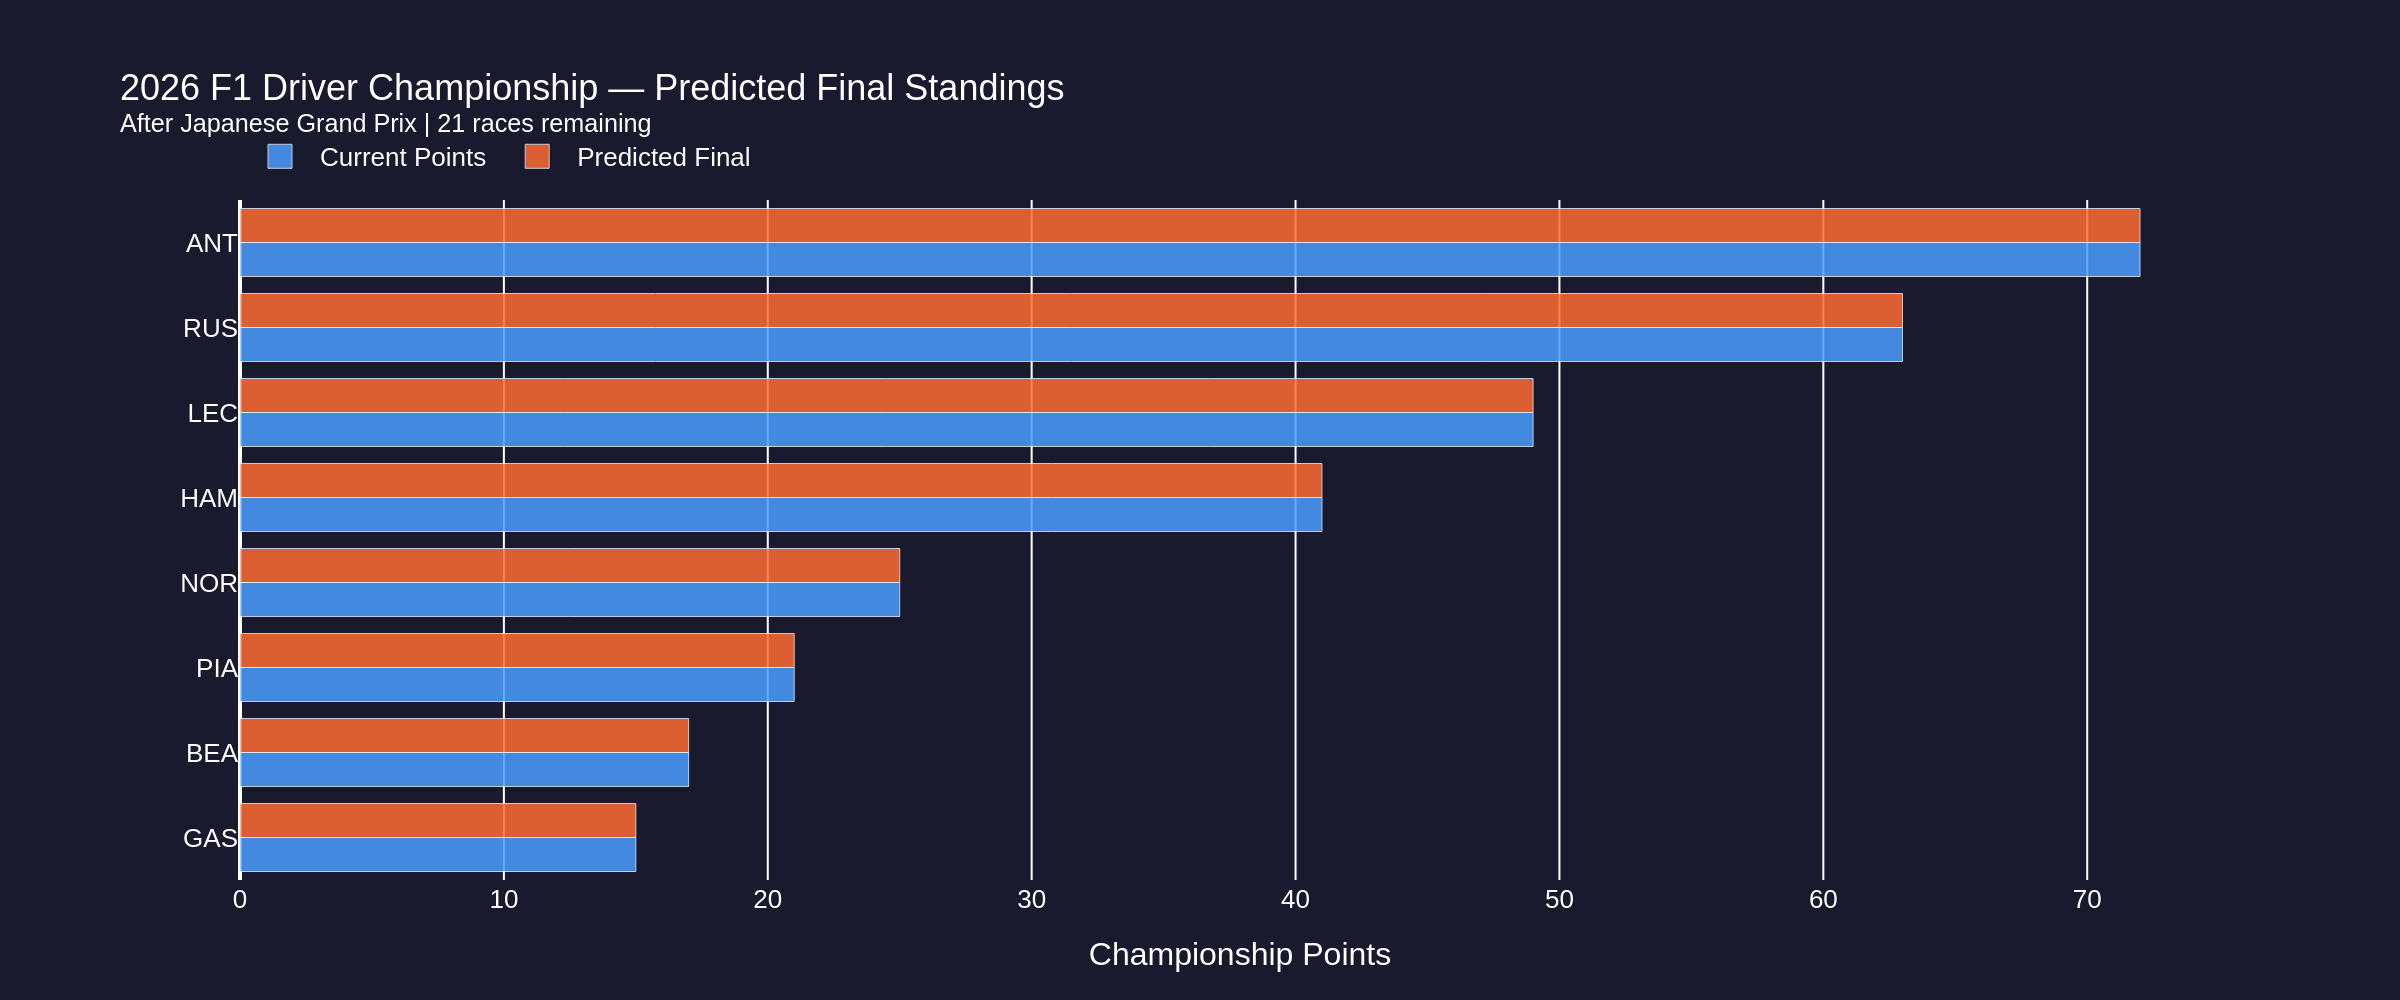
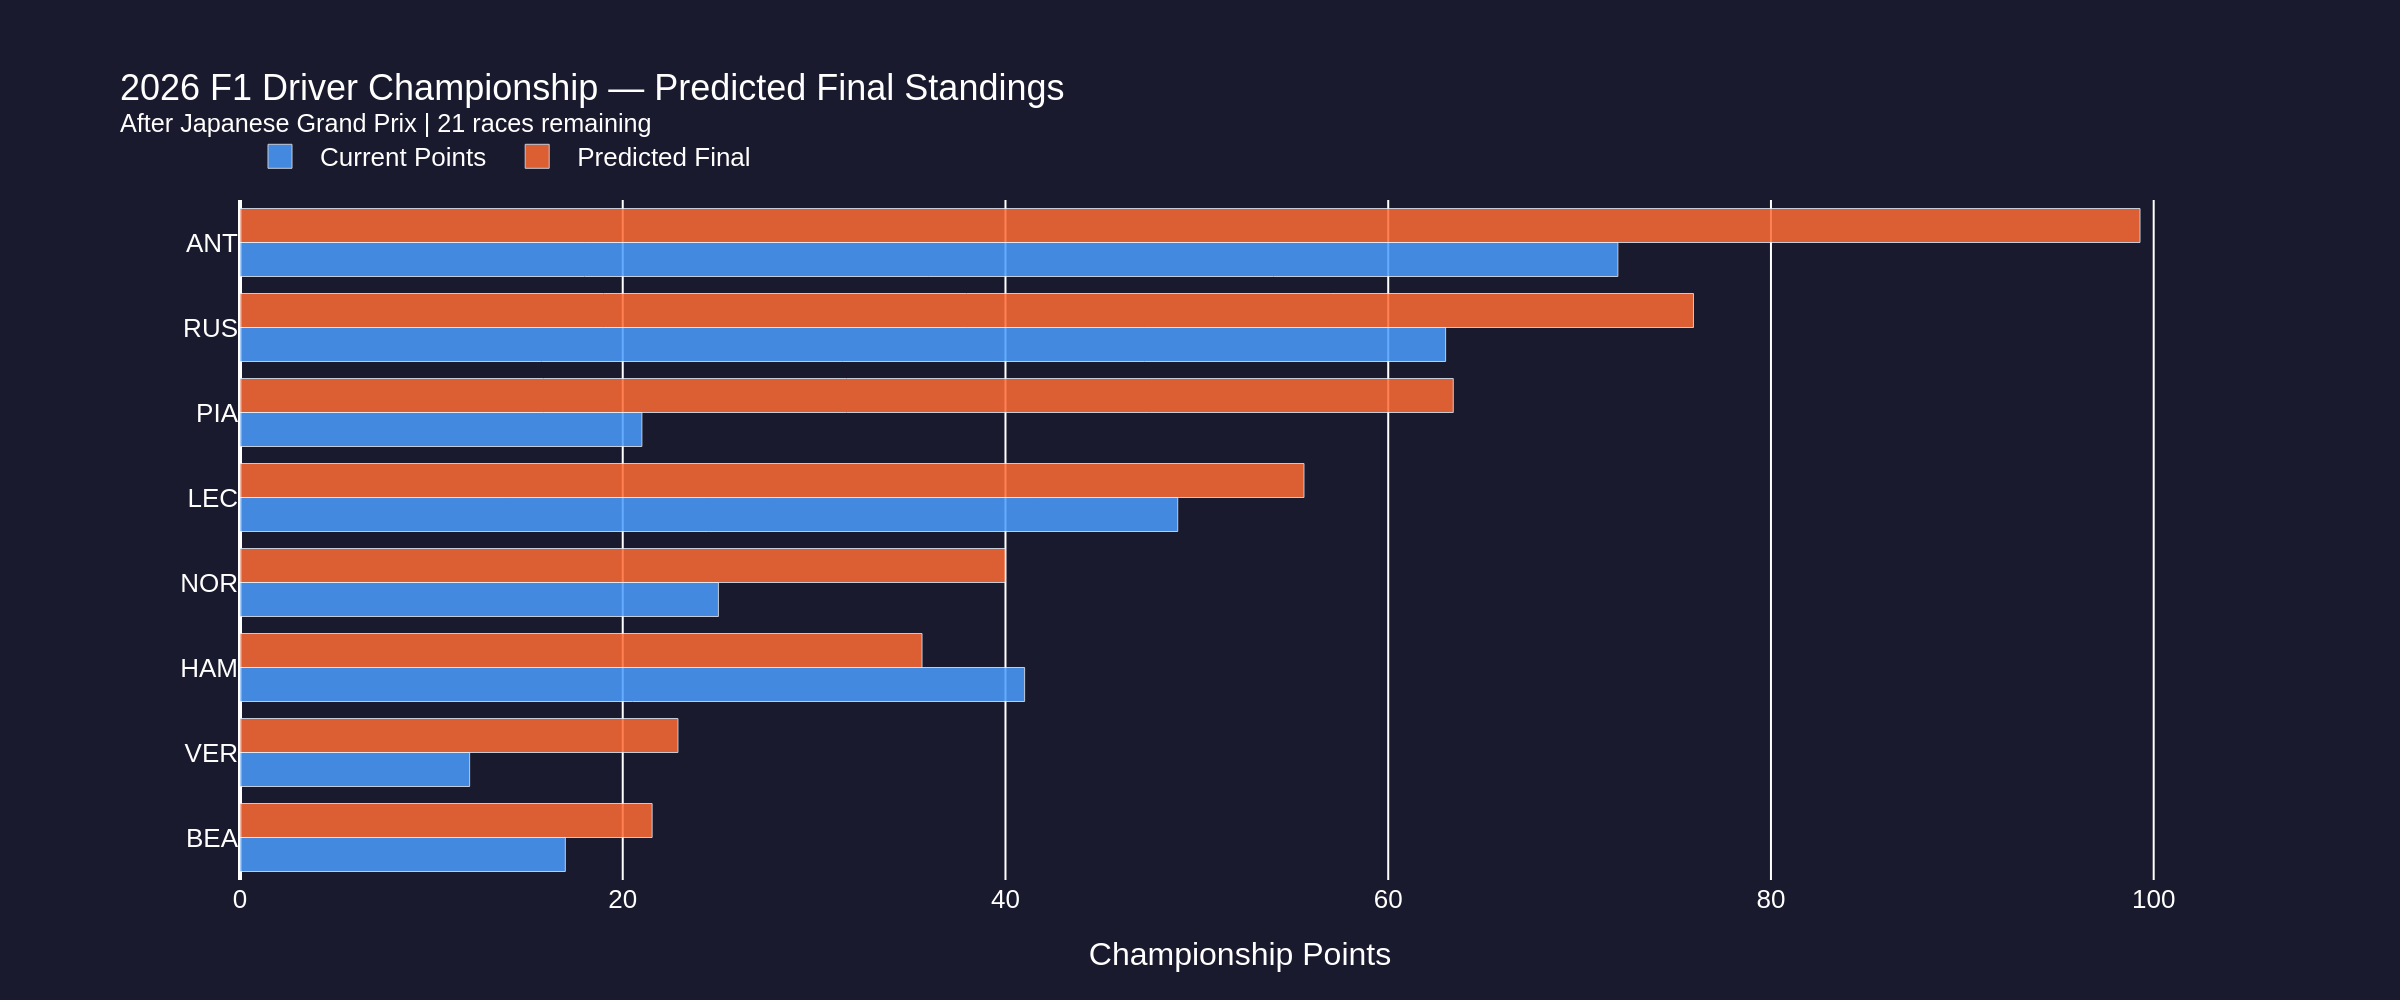
chore: F1 predictions update — 2026-03-30 10:15 UTC

diff --git a/docs/races/japan_2026/index.html b/docs/races/japan_2026/index.html
@@ -106,16 +106,16 @@ a { color: #4a9eff; }
   </div>
   <table style="width:100%; border-collapse:collapse; font-size:0.88rem;">
     <thead><tr><th style="padding:5px 10px; text-align:left; color:#aaa; font-weight:500; border-bottom:1px solid #2a2a4e;">Pos</th><th style="padding:5px 10px; text-align:left; color:#aaa; font-weight:500; border-bottom:1px solid #2a2a4e;">Constructor</th><th style="padding:5px 10px; text-align:left; color:#aaa; font-weight:500; border-bottom:1px solid #2a2a4e; text-align:right;">Current Pts</th><th style="padding:5px 10px; text-align:left; color:#aaa; font-weight:500; border-bottom:1px solid #2a2a4e; text-align:right;">Predicted Final</th></tr></thead>
-    <tbody><tr><td style="padding:5px 10px; vertical-align:top;">1</td><td style="padding:5px 10px; vertical-align:top;"><strong>McLaren</strong></td><td style="padding:5px 10px; vertical-align:top; text-align:right;">46</td><td style="padding:5px 10px; vertical-align:top; text-align:right;">282</td></tr>
-<tr><td style="padding:5px 10px; vertical-align:top;">2</td><td style="padding:5px 10px; vertical-align:top;"><strong>Red Bull Racing</strong></td><td style="padding:5px 10px; vertical-align:top; text-align:right;">16</td><td style="padding:5px 10px; vertical-align:top; text-align:right;">263</td></tr>
-<tr><td style="padding:5px 10px; vertical-align:top;">3</td><td style="padding:5px 10px; vertical-align:top;"><strong>Mercedes</strong></td><td style="padding:5px 10px; vertical-align:top; text-align:right;">135</td><td style="padding:5px 10px; vertical-align:top; text-align:right;">262</td></tr>
-<tr><td style="padding:5px 10px; vertical-align:top;">4</td><td style="padding:5px 10px; vertical-align:top;"><strong>Ferrari</strong></td><td style="padding:5px 10px; vertical-align:top; text-align:right;">90</td><td style="padding:5px 10px; vertical-align:top; text-align:right;">232</td></tr>
-<tr><td style="padding:5px 10px; vertical-align:top;">5</td><td style="padding:5px 10px; vertical-align:top;"><strong>Aston Martin</strong></td><td style="padding:5px 10px; vertical-align:top; text-align:right;">0</td><td style="padding:5px 10px; vertical-align:top; text-align:right;">62</td></tr>
-<tr><td style="padding:5px 10px; vertical-align:top;">6</td><td style="padding:5px 10px; vertical-align:top;"><strong>Williams</strong></td><td style="padding:5px 10px; vertical-align:top; text-align:right;">2</td><td style="padding:5px 10px; vertical-align:top; text-align:right;">56</td></tr>
-<tr><td style="padding:5px 10px; vertical-align:top;">7</td><td style="padding:5px 10px; vertical-align:top;"><strong>Racing Bulls</strong></td><td style="padding:5px 10px; vertical-align:top; text-align:right;">14</td><td style="padding:5px 10px; vertical-align:top; text-align:right;">32</td></tr>
-<tr><td style="padding:5px 10px; vertical-align:top;">8</td><td style="padding:5px 10px; vertical-align:top;"><strong>Haas</strong></td><td style="padding:5px 10px; vertical-align:top; text-align:right;">18</td><td style="padding:5px 10px; vertical-align:top; text-align:right;">20</td></tr>
-<tr><td style="padding:5px 10px; vertical-align:top;">9</td><td style="padding:5px 10px; vertical-align:top;"><strong>Alpine</strong></td><td style="padding:5px 10px; vertical-align:top; text-align:right;">16</td><td style="padding:5px 10px; vertical-align:top; text-align:right;">20</td></tr>
-<tr><td style="padding:5px 10px; vertical-align:top;">10</td><td style="padding:5px 10px; vertical-align:top;"><strong>Audi</strong></td><td style="padding:5px 10px; vertical-align:top; text-align:right;">2</td><td style="padding:5px 10px; vertical-align:top; text-align:right;">13</td></tr>
+    <tbody><tr><td style="padding:5px 10px; vertical-align:top;">1</td><td style="padding:5px 10px; vertical-align:top;"><strong>McLaren</strong></td><td style="padding:5px 10px; vertical-align:top; text-align:right;">46</td><td style="padding:5px 10px; vertical-align:top; text-align:right;">398</td></tr>
+<tr><td style="padding:5px 10px; vertical-align:top;">2</td><td style="padding:5px 10px; vertical-align:top;"><strong>Red Bull Racing</strong></td><td style="padding:5px 10px; vertical-align:top; text-align:right;">16</td><td style="padding:5px 10px; vertical-align:top; text-align:right;">361</td></tr>
+<tr><td style="padding:5px 10px; vertical-align:top;">3</td><td style="padding:5px 10px; vertical-align:top;"><strong>Ferrari</strong></td><td style="padding:5px 10px; vertical-align:top; text-align:right;">90</td><td style="padding:5px 10px; vertical-align:top; text-align:right;">227</td></tr>
+<tr><td style="padding:5px 10px; vertical-align:top;">4</td><td style="padding:5px 10px; vertical-align:top;"><strong>Mercedes</strong></td><td style="padding:5px 10px; vertical-align:top; text-align:right;">135</td><td style="padding:5px 10px; vertical-align:top; text-align:right;">206</td></tr>
+<tr><td style="padding:5px 10px; vertical-align:top;">5</td><td style="padding:5px 10px; vertical-align:top;"><strong>Aston Martin</strong></td><td style="padding:5px 10px; vertical-align:top; text-align:right;">0</td><td style="padding:5px 10px; vertical-align:top; text-align:right;">85</td></tr>
+<tr><td style="padding:5px 10px; vertical-align:top;">6</td><td style="padding:5px 10px; vertical-align:top;"><strong>Williams</strong></td><td style="padding:5px 10px; vertical-align:top; text-align:right;">2</td><td style="padding:5px 10px; vertical-align:top; text-align:right;">36</td></tr>
+<tr><td style="padding:5px 10px; vertical-align:top;">7</td><td style="padding:5px 10px; vertical-align:top;"><strong>Racing Bulls</strong></td><td style="padding:5px 10px; vertical-align:top; text-align:right;">14</td><td style="padding:5px 10px; vertical-align:top; text-align:right;">28</td></tr>
+<tr><td style="padding:5px 10px; vertical-align:top;">8</td><td style="padding:5px 10px; vertical-align:top;"><strong>Audi</strong></td><td style="padding:5px 10px; vertical-align:top; text-align:right;">2</td><td style="padding:5px 10px; vertical-align:top; text-align:right;">18</td></tr>
+<tr><td style="padding:5px 10px; vertical-align:top;">9</td><td style="padding:5px 10px; vertical-align:top;"><strong>Haas</strong></td><td style="padding:5px 10px; vertical-align:top; text-align:right;">18</td><td style="padding:5px 10px; vertical-align:top; text-align:right;">18</td></tr>
+<tr><td style="padding:5px 10px; vertical-align:top;">10</td><td style="padding:5px 10px; vertical-align:top;"><strong>Alpine</strong></td><td style="padding:5px 10px; vertical-align:top; text-align:right;">16</td><td style="padding:5px 10px; vertical-align:top; text-align:right;">16</td></tr>
 </tbody>
   </table>
 </div>
@@ -213,7 +213,7 @@ function showTab(id, el) {
 <footer>
   Generated by <a href="https://timecopilot.dev/">TimeCopilot</a> ·
   Data sources: FastF1, OpenF1, Jolpica-F1 ·
-  Updated 2026-03-29 09:40 UTC
+  Updated 2026-03-30 10:15 UTC
 </footer>
 </body>
 </html>

diff --git a/docs/index.html b/docs/index.html
@@ -60,7 +60,7 @@ a { color: #4a9eff; }
   using historical FastF1 + OpenF1 data.
 </p>
 <p style="color:#666; font-size:0.85rem;">
-  7 race(s) · 35 prediction update(s) · Last updated 2026-03-29 09:40 UTC
+  7 race(s) · 35 prediction update(s) · Last updated 2026-03-30 10:15 UTC
 </p>
 <h2>🏆 2026 Season</h2>
 <div style="background:#1a1a2e; border:1px solid #2a2a4e; border-radius:8px;
@@ -135,7 +135,7 @@ a { color: #4a9eff; }
 <footer>
   Generated by <a href="https://timecopilot.dev/">TimeCopilot</a> ·
   Data sources: FastF1, OpenF1, Jolpica-F1 ·
-  Updated 2026-03-29 09:40 UTC
+  Updated 2026-03-30 10:15 UTC
 </footer>
 </body>
 </html>

diff --git a/docs/races/abu_dhabi_2025/index.html b/docs/races/abu_dhabi_2025/index.html
@@ -120,7 +120,7 @@ function showTab(id, el) {
 <footer>
   Generated by <a href="https://timecopilot.dev/">TimeCopilot</a> ·
   Data sources: FastF1, OpenF1, Jolpica-F1 ·
-  Updated 2026-03-29 09:40 UTC
+  Updated 2026-03-30 10:15 UTC
 </footer>
 </body>
 </html>

diff --git a/docs/races/australia_2026/index.html b/docs/races/australia_2026/index.html
@@ -215,7 +215,7 @@ function showTab(id, el) {
 <footer>
   Generated by <a href="https://timecopilot.dev/">TimeCopilot</a> ·
   Data sources: FastF1, OpenF1, Jolpica-F1 ·
-  Updated 2026-03-29 09:40 UTC
+  Updated 2026-03-30 10:15 UTC
 </footer>
 </body>
 </html>

diff --git a/docs/races/azerbaijan_2025/index.html b/docs/races/azerbaijan_2025/index.html
@@ -145,7 +145,7 @@ function showTab(id, el) {
 <footer>
   Generated by <a href="https://timecopilot.dev/">TimeCopilot</a> ·
   Data sources: FastF1, OpenF1, Jolpica-F1 ·
-  Updated 2026-03-29 09:40 UTC
+  Updated 2026-03-30 10:15 UTC
 </footer>
 </body>
 </html>

diff --git a/docs/races/belgium_2025/index.html b/docs/races/belgium_2025/index.html
@@ -145,7 +145,7 @@ function showTab(id, el) {
 <footer>
   Generated by <a href="https://timecopilot.dev/">TimeCopilot</a> ·
   Data sources: FastF1, OpenF1, Jolpica-F1 ·
-  Updated 2026-03-29 09:40 UTC
+  Updated 2026-03-30 10:15 UTC
 </footer>
 </body>
 </html>

diff --git a/docs/races/china_2026/index.html b/docs/races/china_2026/index.html
@@ -188,7 +188,7 @@ function showTab(id, el) {
 <footer>
   Generated by <a href="https://timecopilot.dev/">TimeCopilot</a> ·
   Data sources: FastF1, OpenF1, Jolpica-F1 ·
-  Updated 2026-03-29 09:40 UTC
+  Updated 2026-03-30 10:15 UTC
 </footer>
 </body>
 </html>

diff --git a/docs/races/monaco_2025/index.html b/docs/races/monaco_2025/index.html
@@ -145,7 +145,7 @@ function showTab(id, el) {
 <footer>
   Generated by <a href="https://timecopilot.dev/">TimeCopilot</a> ·
   Data sources: FastF1, OpenF1, Jolpica-F1 ·
-  Updated 2026-03-29 09:40 UTC
+  Updated 2026-03-30 10:15 UTC
 </footer>
 </body>
 </html>

diff --git a/reports/japan_2026/linkedin_post_post_race.md b/reports/japan_2026/linkedin_post_post_race.md
@@ -1,5 +1,5 @@
 ## 🏎 Japanese Grand Prix — Post-Race Championship Update
-*Powered by [TimeCopilot](https://timecopilot.dev/) — AI time series forecasting | March 29, 2026*
+*Powered by [TimeCopilot](https://timecopilot.dev/) — AI time series forecasting | March 30, 2026*
 
 ---
 
@@ -38,21 +38,25 @@
 
 ### 🏆 Championship Prediction
 
-**Predicted 2026 Driver Champion:** ANT (72 pts predicted final)
+**Predicted 2026 Driver Champion:** ANT (99 pts predicted final)
 
 **Predicted Final 2026 Driver Standings (Top 5):**
 
 | Pos | Driver | Current Pts | Predicted Final |
 |-----|--------|-------------|-----------------|
-| 1 | ANT | 72 | **72** |
-| 2 | RUS | 63 | **63** |
-| 3 | LEC | 49 | **49** |
-| 4 | HAM | 41 | **41** |
-| 5 | NOR | 25 | **25** |
+| 1 | ANT | 72 | **99** |
+| 2 | RUS | 63 | **76** |
+| 3 | PIA | 21 | **63** |
+| 4 | LEC | 49 | **56** |
+| 5 | NOR | 25 | **40** |
 
-**Predicted 2026 Constructor Champion:** McLaren (282 pts)
+**Predicted 2026 Constructor Champion:** McLaren (398 pts)
 
 *21 races remaining in the season.*
+
+### 🤖 TimeCopilot Analysis — Championship
+
+> ANT appears to be the most likely candidate for winning the 2026 F1 World Championship given current form and the points forecast along with potential to occupy a favorable position amidst the competition. Further analysis advises that scenarios involving drivers like PIA could act as realistic challengers in chase positions but require considerable performance sustenance in remaining race segments.
 
 
 ---
